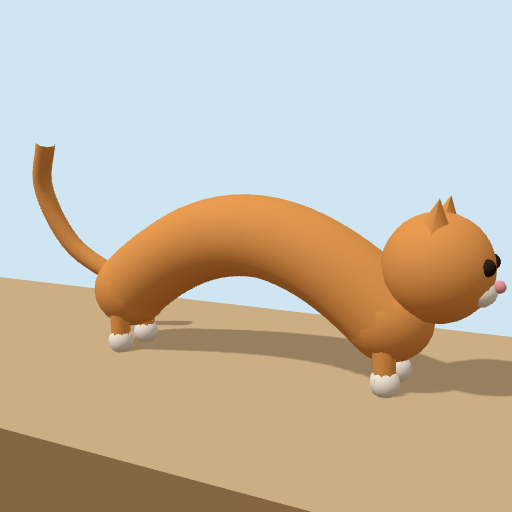
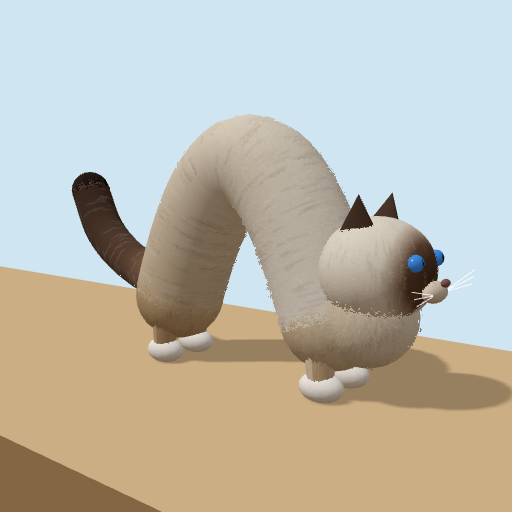
のびねこ: 猫をラグドール風に
Claude-Session: https://claude.ai/code/session_015LbfPjCjvLGTb3LT9Ju79i

diff --git a/games/nobi-neko/index.html b/games/nobi-neko/index.html
@@ -73,7 +73,7 @@
   <div id="stage">
     <div id="gauge">
       <div class="track"><div class="fill"></div></div>
-      <svg class="dot" viewBox="0 0 24 24"><path d="M4 7 L6 1 L10 5 L14 5 L18 1 L20 7 A9 9 0 1 1 4 7 Z" fill="#e8862e" stroke="#3a2a1a" stroke-width="1.5"/><circle cx="9" cy="12" r="1.5" fill="#3a2a1a"/><circle cx="15" cy="12" r="1.5" fill="#3a2a1a"/></svg>
+      <svg class="dot" viewBox="0 0 24 24"><path d="M4 7 L6 1 L10 5 L14 5 L18 1 L20 7 A9 9 0 1 1 4 7 Z" fill="#efe4d2" stroke="#4a3426" stroke-width="1.5"/><ellipse cx="12" cy="13" rx="6" ry="5" fill="#6b4c37"/><circle cx="9.5" cy="12" r="1.4" fill="#3f8ae0"/><circle cx="14.5" cy="12" r="1.4" fill="#3f8ae0"/></svg>
       <svg class="flag" viewBox="0 0 22 28"><path d="M3 2 V27" stroke="#3a2a1a" stroke-width="2.5" stroke-linecap="round"/><path d="M4 3 L20 8 L4 13 Z" fill="#d9472b"/></svg>
     </div>
     <div id="panel"><div class="time"></div><div class="best"></div></div>
@@ -132,6 +132,7 @@
     const renderer = new THREE.WebGLRenderer({ antialias: true });
     renderer.setPixelRatio(Math.min(devicePixelRatio, 2));
     renderer.shadowMap.enabled = true;
+    renderer.shadowMap.type = THREE.PCFSoftShadowMap;
     stage.prepend(renderer.domElement);
     const scene = new THREE.Scene();
     scene.background = new THREE.Color(0xcfe6f2);
@@ -181,46 +182,141 @@
     line.rotation.x = -Math.PI / 2; line.position.set(GOAL, 0.005, 0);
     scene.add(pole, flag, line);
 
-    // 猫
-    const fur = mat(0xf0a050), dark = mat(0x2a1c12), pink = mat(0xf2a0a0), white = mat(0xfff4e6);
+    const v = (x, y, z = 0) => new THREE.Vector3(x, y, z);
+    // 猫（ラグドール: クリーム色の長毛、顔・耳・しっぽが濃い茶色、青い目、白い足先）
+    // 毛はシェル法: 同じ形を少しずつ膨らませた層を重ね、穴の空いた模様で毛先を表す
+    function canvasTex(w, h, paint) {
+      const cv = document.createElement('canvas'); cv.width = w; cv.height = h;
+      paint(cv.getContext('2d'), w, h);
+      const tx = new THREE.CanvasTexture(cv);
+      tx.colorSpace = THREE.SRGBColorSpace; tx.wrapS = tx.wrapT = THREE.RepeatWrapping;
+      return tx;
+    }
+    const noiseBase = (() => {
+      const cv = document.createElement('canvas'); cv.width = cv.height = 128;
+      const g = cv.getContext('2d'), d = g.createImageData(128, 128);
+      for (let i = 0; i < d.data.length; i += 4) { const n = Math.random() ** 1.6 * 255; d.data[i] = d.data[i + 1] = d.data[i + 2] = n; d.data[i + 3] = 255; }
+      g.putImageData(d, 0, 0);
+      return cv;
+    })();
+    function noiseTex(ru, rv) {
+      const tx = new THREE.CanvasTexture(noiseBase);
+      tx.wrapS = tx.wrapT = THREE.RepeatWrapping; tx.repeat.set(ru, rv);
+      return tx;
+    }
+    // 毛の流れ（細い筋）を足した色の模様
+    function streaks(g, w, h, n = 500) {
+      for (let i = 0; i < n; i++) {
+        g.strokeStyle = Math.random() < 0.5 ? 'rgba(255,255,255,.18)' : 'rgba(90,60,40,.10)';
+        g.lineWidth = 1; g.beginPath();
+        const x = Math.random() * w, y = Math.random() * h;
+        g.moveTo(x, y); g.lineTo(x + (Math.random() - 0.5) * 3, y + 6 + Math.random() * 8); g.stroke();
+      }
+    }
+    const SHELLS = 10;
+    function addFur(mesh, len, noise) {
+      mesh.userData.shells = [];
+      for (let k = 1; k <= SHELLS; k++) {
+        const f = k / SHELLS;
+        const m = new THREE.MeshStandardMaterial({ map: mesh.material.map, color: mesh.material.color.clone().multiplyScalar(0.8 + 0.2 * f), roughness: 1, alphaMap: noise, alphaTest: 0.08 + f * 0.85 });
+        const off = { value: len * f };
+        m.onBeforeCompile = sh => {
+          sh.uniforms.uOff = off;
+          sh.vertexShader = 'uniform float uOff;\n' + sh.vertexShader.replace('#include <begin_vertex>', 'vec3 transformed = position + normal * uOff; transformed.y -= uOff * uOff * 2.0;');
+        };
+        m.customProgramCacheKey = () => 'fur';
+        const s = new THREE.Mesh(mesh.geometry, m);
+        mesh.add(s); mesh.userData.shells.push(s);
+      }
+      mesh.castShadow = true;
+      mesh.material.color.multiplyScalar(0.75);
+      return mesh;
+    }
+    function setGeo(mesh, geo) {
+      mesh.geometry.dispose();
+      mesh.geometry = geo;
+      for (const s of mesh.userData.shells) s.geometry = geo;
+    }
+    const furMat = (tex, c = 0xffffff) => new THREE.MeshStandardMaterial({ map: tex, color: c, roughness: 1 });
+    const bodyTex = canvasTex(256, 128, (g, w, h) => {
+      const gr = g.createLinearGradient(0, 0, w, 0);
+      gr.addColorStop(0, '#d9c3a3'); gr.addColorStop(0.5, '#ece0cc'); gr.addColorStop(1, '#f7f0e4');
+      g.fillStyle = gr; g.fillRect(0, 0, w, h); streaks(g, w, h, 900);
+    });
+    const tailTex = canvasTex(128, 64, (g, w, h) => {
+      const gr = g.createLinearGradient(0, 0, w, 0);
+      gr.addColorStop(0, '#9a7a5c'); gr.addColorStop(0.35, '#5e4331'); gr.addColorStop(1, '#3f2b1f');
+      g.fillStyle = gr; g.fillRect(0, 0, w, h); streaks(g, w, h, 300);
+    });
+    // 顔: 球の u=0.5 が正面（+x）。目と鼻のまわりが濃い「マスク」
+    const headTex = canvasTex(256, 128, (g, w, h) => {
+      g.fillStyle = '#f2e8d8'; g.fillRect(0, 0, w, h);
+      const m = g.createRadialGradient(w * 0.5, h * 0.52, 2, w * 0.5, h * 0.52, w * 0.17);
+      m.addColorStop(0, '#4a3324'); m.addColorStop(0.55, '#6b4c37'); m.addColorStop(1, 'rgba(160,125,95,0)');
+      g.fillStyle = m; g.fillRect(0, 0, w, h);
+      // 額の白い V（ラグドールのミテッド柄）
+      g.fillStyle = 'rgba(245,238,226,.9)';
+      g.beginPath(); g.moveTo(w * 0.5, h * 0.52); g.lineTo(w * 0.46, h * 0.82); g.lineTo(w * 0.54, h * 0.82); g.fill();
+      streaks(g, w, h, 400);
+    });
+    const seal = 0x4a3426;
+    const solid = c => new THREE.MeshStandardMaterial({ color: c, roughness: 0.9 });
     const catG = new THREE.Group();
     scene.add(catG);
-    const bodyMesh = new THREE.Mesh(new THREE.BufferGeometry(), fur);
-    const tailMesh = new THREE.Mesh(new THREE.BufferGeometry(), fur);
-    bodyMesh.castShadow = tailMesh.castShadow = true;
-    const capB = new THREE.Mesh(new THREE.SphereGeometry(R, 16, 12), fur);
-    const capF = new THREE.Mesh(new THREE.SphereGeometry(R, 16, 12), fur);
-    capB.castShadow = capF.castShadow = true;
-    catG.add(bodyMesh, tailMesh, capB, capF);
+    const bodyMesh = addFur(new THREE.Mesh(new THREE.BufferGeometry(), furMat(bodyTex)), 0.07, noiseTex(10, 4));
+    const tailMesh = addFur(new THREE.Mesh(new THREE.BufferGeometry(), furMat(tailTex)), 0.11, noiseTex(8, 2));
+    const capB = addFur(new THREE.Mesh(new THREE.SphereGeometry(R, 20, 14), furMat(bodyTex, 0xe2d0b4)), 0.07, noiseTex(6, 3));
+    const capF = addFur(new THREE.Mesh(new THREE.SphereGeometry(R, 20, 14), furMat(bodyTex, 0xfaf4ea)), 0.07, noiseTex(6, 3));
+    const tailTip = addFur(new THREE.Mesh(new THREE.SphereGeometry(0.085, 14, 10), furMat(tailTex, 0x6a5040)), 0.11, noiseTex(4, 2));
+    catG.add(bodyMesh, tailMesh, capB, capF, tailTip);
     const head = new THREE.Group();
-    const skull = new THREE.Mesh(new THREE.SphereGeometry(0.26, 20, 16), fur);
-    skull.castShadow = true;
-    head.add(skull);
-    for (const z of [-0.13, 0.13]) {
-      const ear = new THREE.Mesh(new THREE.ConeGeometry(0.09, 0.18, 4), fur);
-      ear.position.set(-0.02, 0.24, z); ear.rotation.x = z * 1.4;
+    const skull = addFur(new THREE.Mesh(new THREE.SphereGeometry(0.24, 28, 20), furMat(headTex)), 0.05, noiseTex(8, 4));
+    skull.scale.set(1, 0.92, 1.05);
+    // 胸のふさふさした白い毛
+    const ruff = addFur(new THREE.Mesh(new THREE.SphereGeometry(0.2, 20, 14), furMat(bodyTex, 0xffffff)), 0.1, noiseTex(5, 3));
+    ruff.position.set(-0.05, -0.2, 0);
+    head.add(skull, ruff);
+    const earGeo = new THREE.ConeGeometry(0.1, 0.19, 16);
+    earGeo.scale(1, 1, 0.45);
+    const innerGeo = new THREE.ConeGeometry(0.055, 0.12, 12);
+    innerGeo.scale(1, 1, 0.3);
+    for (const z of [-0.12, 0.12]) {
+      const ear = new THREE.Mesh(earGeo, solid(seal));
+      ear.position.set(-0.01, 0.24, z * 1.1); ear.rotation.set(z * 2.2, 0, -0.15);
+      const inner = new THREE.Mesh(innerGeo, solid(0xd9a090));
+      inner.position.set(0.02, -0.015, 0);
+      ear.add(inner);
       head.add(ear);
-      const eye = new THREE.Mesh(new THREE.SphereGeometry(0.04, 10, 8), dark);
-      eye.position.set(0.22, 0.06, z * 0.75);
+      // 青い目と黒い瞳
+      const eye = new THREE.Mesh(new THREE.SphereGeometry(0.042, 16, 12), new THREE.MeshStandardMaterial({ color: 0x3f8ae0, roughness: 0.15, emissive: 0x0a2a55 }));
+      eye.position.copy(v(0.86, 0.2, z * 3.4).normalize().multiplyScalar(0.252));
+      eye.scale.set(0.8, 0.85, 1);
+      const pupil = new THREE.Mesh(new THREE.SphereGeometry(0.02, 10, 8), solid(0x050505));
+      pupil.position.set(0.03, 0, 0); pupil.scale.set(0.6, 1.2, 0.7);
+      eye.add(pupil);
       head.add(eye);
     }
-    const muzzle = new THREE.Mesh(new THREE.SphereGeometry(0.1, 12, 10), white);
-    muzzle.position.set(0.2, -0.07, 0); muzzle.scale.set(0.8, 0.7, 1.2);
-    const nose = new THREE.Mesh(new THREE.SphereGeometry(0.03, 8, 6), pink);
-    nose.position.set(0.28, -0.03, 0);
-    head.add(muzzle, nose);
+    const muzzle = new THREE.Mesh(new THREE.SphereGeometry(0.075, 14, 10), solid(0xd8c8b4));
+    muzzle.position.set(0.26, -0.075, 0); muzzle.scale.set(0.6, 0.6, 1.2);
+    const nose = new THREE.Mesh(new THREE.SphereGeometry(0.025, 10, 8), solid(0x8a5a55));
+    nose.position.set(0.305, -0.035, 0); nose.scale.set(0.7, 0.7, 1.2);
+    const wPts = [];
+    for (const s of [-1, 1]) for (let i = 0; i < 3; i++) wPts.push(0.28, -0.08, s * 0.05, 0.31, -0.06 + i * 0.03 - 0.02, s * (0.3 + i * 0.02));
+    const wGeo = new THREE.BufferGeometry();
+    wGeo.setAttribute('position', new THREE.Float32BufferAttribute(wPts, 3));
+    const whiskers = new THREE.LineSegments(wGeo, new THREE.LineBasicMaterial({ color: 0xffffff, transparent: true, opacity: 0.8 }));
+    head.add(muzzle, nose, whiskers);
     catG.add(head);
-    const legGeo = new THREE.CylinderGeometry(0.06, 0.055, 1, 8);
+    const legGeo = new THREE.CylinderGeometry(0.075, 0.06, 1, 12);
     legGeo.translate(0, -0.5, 0);
     const legs = [];
     for (let i = 0; i < 4; i++) {
-      const l = new THREE.Mesh(legGeo, fur); l.castShadow = true;
-      const paw = new THREE.Mesh(new THREE.SphereGeometry(0.075, 10, 8), white);
+      const l = new THREE.Mesh(legGeo, furMat(bodyTex, i < 2 ? 0xe8dccb : 0xcdb69a)); l.castShadow = true;
+      const paw = addFur(new THREE.Mesh(new THREE.SphereGeometry(0.075, 14, 10), solid(0xfffaf2)), 0.03, noiseTex(4, 2));
+      paw.scale.set(1.3, 0.8, 1);
       catG.add(l, paw);
       legs.push({ l, paw, front: i < 2, z: i % 2 ? 0.12 : -0.12 });
     }
-
-    const v = (x, y, z = 0) => new THREE.Vector3(x, y, z);
     function archOf(L) { return Math.sqrt(Math.max(0, (SPINE / 2) ** 2 - (L / 2) ** 2)); }
     // 背骨の曲線（腰→肩）
     function spineCurve() {
@@ -230,18 +326,17 @@
     let time = 0;
     function updateCatMesh() {
       const c = spineCurve();
-      bodyMesh.geometry.dispose();
-      bodyMesh.geometry = new THREE.TubeGeometry(c, 24, R, 12, false);
+      setGeo(bodyMesh, new THREE.TubeGeometry(c, 32, R, 16, false));
       capB.position.copy(c.getPoint(0));
       capF.position.copy(c.getPoint(1));
       const hip = c.getPoint(0), sh = c.getPoint(1);
       const tng = c.getTangent(1);
-      head.position.set(sh.x + 0.18 + tng.x * 0.05, sh.y + 0.26, 0);
+      head.position.set(sh.x + 0.2 + tng.x * 0.05, sh.y + 0.24, 0);
       head.rotation.z = -0.15 + cat.b * 0.3;
       const w = Math.sin(time * 3) * 0.15;
-      const tail = new THREE.CatmullRomCurve3([v(hip.x - 0.1, hip.y + 0.05), v(hip.x - 0.4, hip.y + 0.25, w * 0.5), v(hip.x - 0.55, hip.y + 0.6, w), v(hip.x - 0.45, hip.y + 0.85, w * 1.5)]);
-      tailMesh.geometry.dispose();
-      tailMesh.geometry = new THREE.TubeGeometry(tail, 16, 0.055, 8, false);
+      const tail = new THREE.CatmullRomCurve3([v(hip.x - 0.05, hip.y + 0.05), v(hip.x - 0.4, hip.y + 0.12, w * 0.4), v(hip.x - 0.75, hip.y + 0.3, w), v(hip.x - 0.95, hip.y + 0.55, w * 1.5)]);
+      tailTip.position.copy(tail.getPoint(1));
+      setGeo(tailMesh, new THREE.TubeGeometry(tail, 20, 0.085, 10, false));
       for (const g of legs) {
         const top = g.front ? sh : hip;
         const fx = g.front ? cat.fx : cat.bx;
